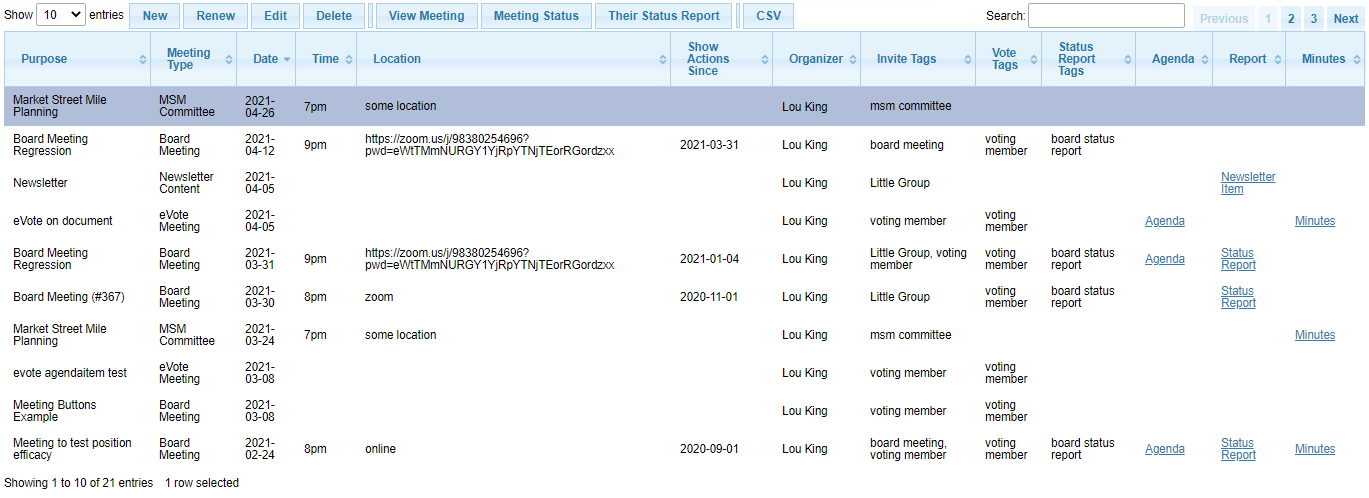
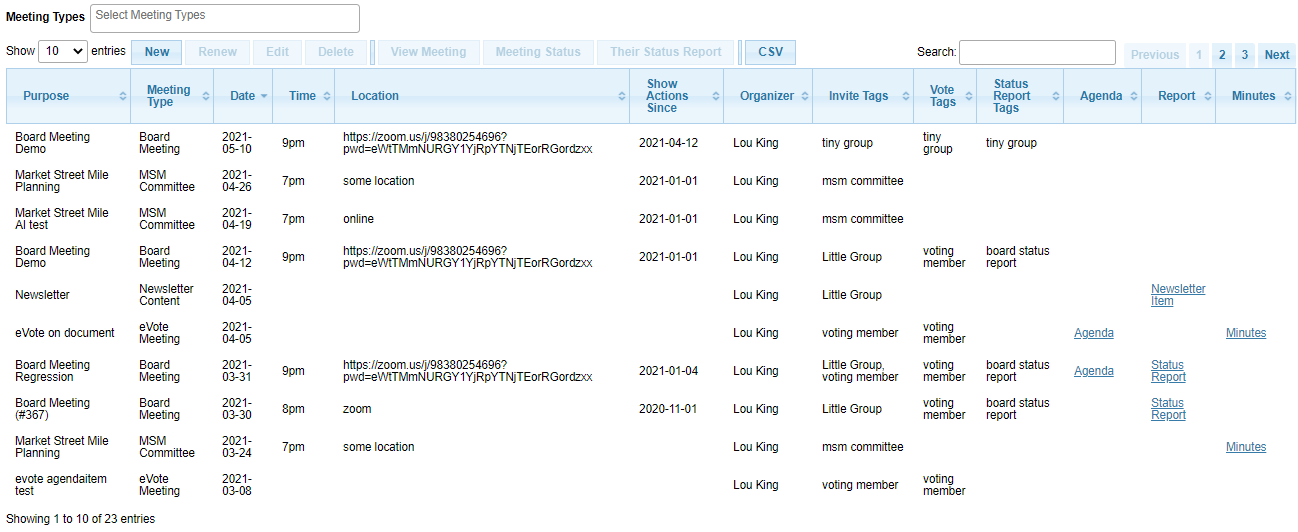
Meetings view: add filter for meeting type (#442)

diff --git a/members/static/admin/afterdatatables.js b/members/static/admin/afterdatatables.js
@@ -617,6 +617,10 @@ function afterdatatables() {
             // this gets shown when renew button is used
             .hide('renewoptions');
 
+        // // initialize all the filters [only required for persistent filters]
+        // fltr_register('meetings-external-filter-membertype', null, true);
+        // fltr_init();
+
     // special processing for meetingtypes
     } else if (pathname == `/admin/${interest}/meetingtypes`) {
         editor.on('submitSuccess', function(e, json, data, action) {

diff --git a/members/views/admin/meetings_admin.py b/members/views/admin/meetings_admin.py
@@ -242,6 +242,21 @@ def meetings_validate(action, formdata):
 
     return results
 
+def meetings_pretablehtml():
+    pretablehtml = div()
+    with pretablehtml:
+        # meeting header
+        meetings_filters = filtercontainerdiv()
+        with meetings_filters:
+            filterdiv('meetings-external-filter-meetingtype', 'Meeting Types')
+
+    return pretablehtml.render()
+
+meetings_yadcf_options = [
+    yadcfoption('meetingtype.meetingtype:name', 'meetings-external-filter-meetingtype', 'multi_select',
+                placeholder='Select Meeting Types', width='300px'),
+]
+
 meetings_view = MeetingsView(
     roles_accepted=[ROLE_SUPER_ADMIN, ROLE_MEETINGS_ADMIN],
     local_interest_model=LocalInterest,
@@ -251,6 +266,8 @@ meetings_view = MeetingsView(
     version_id_col='version_id',  # optimistic concurrency control
     template='datatables.jinja2',
     templateargs={'adminguide': adminguide},
+    pretablehtml=meetings_pretablehtml,
+    yadcfoptions=meetings_yadcf_options,
     pagename='Meetings',
     endpoint='admin.meetings',
     endpointvalues={'interest': '<interest>'},

diff --git a/docs/meetings-admin-reference.rst b/docs/meetings-admin-reference.rst
@@ -411,6 +411,11 @@ and these navigation buttons
         this allows the :term:`meeting admin` to :term:`RSVP <rsvp>` and enter :term:`status reports <status report>`
         on behalf of another :term:`member`. This brings up :ref:`Their Status Report view`
 
+The view has the following filters:
+
+    :Meeting Types:
+        :term:`meeting types <meeting type>` of interest
+
 .. image:: images/meetings-view.*
     :align: center
 
